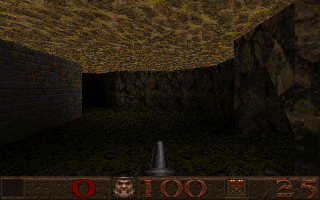
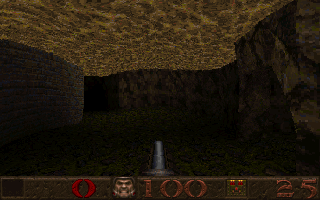
The painter picks each face's mip level as D_MipLevelForScale does and builds its surface from that mip, warps the view under water, slime and lava as D_WarpScreen does, and rolls it up to 2 degrees when strafing as V_CalcRoll does; distant faces stop shimmering and the raster gets faster
Claude-Session: https://claude.ai/code/session_01BbS8rtmAPcSwnkVohUB7vv

diff --git a/src/renderer.js b/src/renderer.js
@@ -57,7 +57,7 @@ export class Renderer {
   }
 
   // ─â”€ surface cache (R_DrawSurface) ─â”€â”€â”€─â”€â”€â”€─â”€â”€â”€─â”€â”€â”€─â”€â”€â”€─â”€â”€â”€─â”€â”€â”€─â”€â”€â”€─â”€â”€â”€─â”€â”€
-  surface(faceId, styles, time, frame, ent = 0) {
+  surface(faceId, styles, time, frame, ent = 0, mip = 0) {
     const info = this.faceInfo.get(faceId);
     if (!info) return null;
     const { bsp, f } = info;
@@ -75,16 +75,16 @@ export class Renderer {
       const v = styles[f.styles[i]] ?? 1;
       light = light * 7 + Math.round(v * 16);
     }
-    key = faceId + ':' + light + ':' + tex.name;
+    key = faceId + ':' + light + ':' + tex.name + ':' + mip;
     // a face a dynamic light reaches is built for this frame alone, as Quake rebuilds its surface; a
     // brush model's faces see the light moved into the model's frame (its origin from the face list)
     const o = !this.dlights.length ? null : ent === 0 ? NO_OFFSET : this.entOrigin.get(ent);
     const lit = o ? this.faceDlights(info, o) : null;
-    if (lit) return this.buildSurface(bsp, f, tex, styles, lit);
+    if (lit) return this.buildSurface(bsp, f, tex, styles, lit, mip);
     let s = this.surfCache.get(key);
     if (s) return s;
     if (this.surfCache.size > SURF_CACHE_MAX) this.surfCache.clear();
-    s = this.buildSurface(bsp, f, tex, styles);
+    s = this.buildSurface(bsp, f, tex, styles, null, mip);
     this.surfCache.set(key, s);
     return s;
   }
@@ -110,9 +110,11 @@ export class Renderer {
     return out;
   }
 
-  buildSurface(bsp, f, tex, styles, dlights = null) {
-    const sw = Math.max(1, f.extents[0]);
-    const sh = Math.max(1, f.extents[1]);
+  // R_DrawSurface at a mip level: the surface 1/2^mip the size, from the texture's mip, the lightmap's
+  // luxels 16 >> mip texels apart
+  buildSurface(bsp, f, tex, styles, dlights = null, mip = 0) {
+    const sw = Math.max(1, f.extents[0] >> mip);
+    const sh = Math.max(1, f.extents[1] >> mip);
     const data = new Uint8Array(sw * sh);
     const lw = f.lightW;
     const lh = f.lightH;
@@ -141,26 +143,29 @@ export class Renderer {
       }
     }
     const cm = this.colormap;
-    const texw = tex.w, texh = tex.h, mip = tex.mips[0];
+    const texw = tex.w >> mip, texh = tex.h >> mip, pix = tex.mips[mip];
     const smin = f.texturemins[0], tmin = f.texturemins[1];
+    const smip = smin >> mip, tmip = tmin >> mip;
     for (let v = 0; v < sh; v++) {
-      const ty = (((v + tmin) % texh) + texh) % texh;
-      const lv = v >> 4, lf = (v & 15) / 16;
+      const ty = (((v + tmip) % texh) + texh) % texh;
+      const vf = v << mip;                      // the full-size texel row, for the lightmap
+      const lv = Math.min(vf >> 4, lh - 1), lf = (vf & 15) / 16;
       const lv1 = Math.min(lv + 1, lh - 1);
       const row = v * sw;
       for (let u = 0; u < sw; u++) {
-        const tx = (((u + smin) % texw) + texw) % texw;
-        const lu = u >> 4, luf = (u & 15) / 16;
+        const tx = (((u + smip) % texw) + texw) % texw;
+        const uf = u << mip;
+        const lu = Math.min(uf >> 4, lw - 1), luf = (uf & 15) / 16;
         const lu1 = Math.min(lu + 1, lw - 1);
         const l0 = block[lv * lw + lu] * (1 - luf) + block[lv * lw + lu1] * luf;
         const l1 = block[lv1 * lw + lu] * (1 - luf) + block[lv1 * lw + lu1] * luf;
         const l = l0 * (1 - lf) + l1 * lf;
         let shade = (255 - l) >> 2;
         if (shade < 0) shade = 0; else if (shade > 63) shade = 63;
-        data[row + u] = cm[(shade << 8) | mip[ty * texw + tx]];
+        data[row + u] = cm[(shade << 8) | pix[ty * texw + tx]];
       }
     }
-    return { data, w: sw, h: sh, smin, tmin };
+    return { data, w: sw, h: sh, smin, tmin, mip };
   }
 
   // ─â”€ a frame ─â”€â”€â”€─â”€â”€â”€─â”€â”€â”€─â”€â”€â”€─â”€â”€â”€─â”€â”€â”€─â”€â”€â”€─â”€â”€â”€─â”€â”€â”€─â”€â”€â”€─â”€â”€â”€─â”€â”€â”€─â”€â”€â”€─â”€â”€â”€─â”€â”€â”€─
@@ -230,7 +235,16 @@ export class Renderer {
       }
       if (info.f.sky) this.fillPolygon(verts, null, 2, time);
       else {
-        const s = this.surface(face, styles, time, entFrames.get(ent) ?? 0, ent);
+        // D_MipLevelForScale: the face's nearest point, the view's pixels per unit and the texture's mipadjust;
+        // liquids warp the full texture
+        let nearest = Infinity;
+        for (const p of poly) if (p[2] < nearest) nearest = p[2];
+        // the grid puts many faces exactly on a threshold (160, 400, 800 units at 320 wide): rounded, the SQL
+        // projection (a few 1e-7 off) and the JS one choose alike
+        nearest = Math.round(nearest * 1000) / 1000;
+        const scale = (view.scale / Math.max(near, nearest)) * (info.ti.mipadjust ?? 1);
+        const mip = info.f.liquid ? 0 : scale >= 1 ? 0 : scale >= 0.4 ? 1 : scale >= 0.2 ? 2 : 3;
+        const s = this.surface(face, styles, time, entFrames.get(ent) ?? 0, ent, mip);
         if (s) this.fillPolygon(verts, s, info.f.liquid ? 1 : 0, time);
       }
     }
@@ -301,6 +315,7 @@ export class Renderer {
     }
     const sd = surf ? surf.data : null;
     const sw = surf ? surf.w : 0, sh = surf ? surf.h : 0, smin = surf ? surf.smin : 0, tmin = surf ? surf.tmin : 0;
+    const mscale = surf ? 1 / (1 << surf.mip) : 1;     // a mip surface: texels 2^mip apart
     const sin = this.sinTable;
     const tphase = (time * 20) & 255;
     const view = this.view;
@@ -332,7 +347,7 @@ export class Renderer {
         if (iz <= zb[idx]) continue;
         zb[idx] = iz;
         const z = 1 / iz;
-        let s = sz * z - smin, t = tz * z - tmin;
+        let s = (sz * z - smin) * mscale, t = (tz * z - tmin) * mscale;
         if (mode === 1) {
           const ss = s, tt = t;
           s += sin[(tphase + (tt >> 0)) & 255];
@@ -610,6 +625,33 @@ export class Renderer {
   }
 
   // Draw_FadeScreen: every other pixel black, under the menu
+  // D_WarpScreen: under water, slime or lava the 3D view is resampled through Quake's sine table, rows
+  // and columns shifted by up to AMP2 * 2 pixels, cycling at 20 steps a second (before the 2D is drawn)
+  warpView(time) {
+    const { w, fb } = this;
+    const h = this.h - this.sbarLines;
+    const AMP2 = 3, CYCLE = 128;
+    if (!this.warpTurb) {
+      this.warpTurb = new Int32Array(1280);
+      for (let i = 0; i < 1280; i++) this.warpTurb[i] = Math.trunc(AMP2 + Math.sin((i * Math.PI * 2) / CYCLE) * AMP2);
+    }
+    if (this.warpW !== w || this.warpH !== h) {
+      this.warpW = w; this.warpH = h;
+      this.warpRows = new Int32Array(h + AMP2 * 2);
+      for (let v = 0; v < h + AMP2 * 2; v++) this.warpRows[v] = Math.trunc((v * h) / (h + AMP2 * 2)) * w;
+      this.warpCols = new Int32Array(w + AMP2 * 2);
+      for (let u = 0; u < w + AMP2 * 2; u++) this.warpCols[u] = Math.trunc((u * w) / (w + AMP2 * 2));
+      this.warpSrc = new Uint8Array(w * h);
+    }
+    const src = this.warpSrc, rows = this.warpRows, cols = this.warpCols, turb = this.warpTurb;
+    src.set(fb.subarray(0, w * h));
+    const off = Math.floor(time * 20) & (CYCLE - 1);
+    for (let v = 0; v < h; v++) {
+      const tv = turb[off + v], d = v * w;
+      for (let u = 0; u < w; u++) fb[d + u] = src[rows[v + turb[off + u]] + cols[tv + u]];
+    }
+  }
+
   fadeScreen() {
     const { fb, w, h } = this;
     for (let y = 0; y < h; y++) for (let x = y & 1; x < w; x += 2) fb[y * w + x] = 0;

diff --git a/src/main.js b/src/main.js
@@ -482,9 +482,24 @@ function handleFx(rows, time) {
   }
 }
 
+// V_CalcRoll: strafing rolls the view up to cl_rollangle (2°), fully from cl_rollspeed (200 units a second);
+// the sideways speed is the player's motion between frames along the view's right
+let rollFrom = null;
+function viewRoll(time) {
+  let roll = 0;
+  if (rollFrom && time > rollFrom.t) {
+    const vx = (last.PX - rollFrom.x) / (time - rollFrom.t), vy = (last.PY - rollFrom.y) / (time - rollFrom.t);
+    const yaw = (last.YAW * Math.PI) / 180;
+    const side = vx * Math.sin(yaw) - vy * Math.cos(yaw);
+    roll = Math.sign(side) * (Math.abs(side) < 200 ? (Math.abs(side) * 2) / 200 : 2);
+  } else if (rollFrom) roll = rollFrom.roll;
+  if (!rollFrom || time > rollFrom.t) rollFrom = { x: last.PX, y: last.PY, t: time, roll };
+  return roll;
+}
+
 function drawFrame(faces, ents, styles, time, dt = 0.05, overlay = null) {
   const r = renderer;
-  const view = { x: last.PX, y: last.PY, z: last.VIEW_Z, yaw: last.YAW, pitch: last.PITCH, roll: last.DEAD ? 60 : 0, fov: settings.fov };
+  const view = { x: last.PX, y: last.PY, z: last.VIEW_Z, yaw: last.YAW, pitch: last.PITCH, roll: last.DEAD ? 60 : last.INTERMISSION ? 0 : viewRoll(time), fov: settings.fov };
   r.beginFrame(view);
   const dl = r.dlights = frameDlights({ ents, models: res.models, explosions, qc: settings.logic === 'qc', time,
     player: { x: last.PX, y: last.PY, z: last.PZ, yaw: last.YAW, muzzle: muzzleUntil > time - 0.05 && !last.DEAD, glow: !!(last.QUAD || last.INVINCIBLE) } });
@@ -541,6 +556,8 @@ function drawFrame(faces, ents, styles, time, dt = 0.05, overlay = null) {
     }
   }
   prevPos = { x: last.PX, y: last.PY };
+  // the eye under water, slime or lava: the warp, over everything 3D and under the 2D
+  if (last.WATERLEVEL >= 3) r.warpView(time);
 
   // 2D
   // the intermission (the stats, or the finale's text) replaces the status bar, as in Sbar_Draw

diff --git a/src/bsp.js b/src/bsp.js
@@ -66,6 +66,10 @@ export class Bsp {
         t: [dv.getFloat32(p + 16, true), dv.getFloat32(p + 20, true), dv.getFloat32(p + 24, true)], toff: dv.getFloat32(p + 28, true),
         miptex: dv.getInt32(p + 32, true), flags: dv.getInt32(p + 36, true),
       });
+      // Mod_LoadTexinfo's mipadjust: a texture stretched over the surface (short texel vectors) keeps more detail
+      const ti = this.texinfo[this.texinfo.length - 1];
+      const len = (Math.hypot(...ti.s) + Math.hypot(...ti.t)) / 2;
+      ti.mipadjust = len < 0.32 ? 4 : len < 0.49 ? 3 : len < 0.99 ? 2 : 1;
     }
 
     // textures (miptex)

diff --git a/docs/ROADMAP.md b/docs/ROADMAP.md
@@ -28,8 +28,8 @@ does not do yet, roughly by how much it would change the experience. Items marke
 ## The renderer
 
 - **Resolution and scaling**: the view is 320×200 or 160×100 scaled by CSS. A 640×400 mode would need the painter's per-pixel loops to get faster first (the span loop is the hot path; typed-array tricks and avoiding per-pixel divides beyond the 8-pixel step would help), or a second Worker for the painter.
-- **Underwater warp**, **view roll** when strafing, **fullbright texture pixels** (the colormap handles them, but the surface cache does not mark them), **coloured lighting** (not Quake, not needed).
-- **Mip levels**: one mip level is used; distant faces shimmer. Picking the mip by the span's 1/z is cheap.
+- ~~**Underwater warp**~~ done (`Renderer.warpView`, `D_WarpScreen`): with the eye in water, slime or lava the finished 3D view is resampled through Quake's sine table. ~~**View roll** when strafing~~ done (`V_CalcRoll`: 2° at 200 units a second sideways, from the player's motion between frames). **Fullbright texture pixels** need nothing: Quake's colormap keeps colours 224–255 unchanged at every light level (all 2048 entries), and the surface cache goes through it. **Coloured lighting** (not Quake, not needed).
+- ~~**Mip levels**~~ done: each face picks its mip by `D_MipLevelForScale` (its nearest point, the view's pixels per unit, the texinfo's `mipadjust`; thresholds 1, 0.4, 0.2), and the surface cache builds it at 1/2^mip the size from the texture's mip with the lightmap sampled 16 >> mip texels apart. Distant faces no longer shimmer, and the raster got faster (E1M1's start view: 50 ms against 77). The nearest distance is rounded to a thousandth before the thresholds: the grid puts many faces exactly 160, 400 or 800 units away, where the SQL projection's last digits would otherwise pick another level than the JS one (`--compare`).
 - **BSP2 / 2PSB and large maps**: the parser accepts BSP 29 only, so many modern maps will not load. The loader's `TABLES` are not the limit; `Bsp` is.
 - **Transparent water**: Quake did not have it; `alpha` on `ents` exists for the oldone's gates and could carry it.
 

diff --git a/docs/ARCHITECTURE.md b/docs/ARCHITECTURE.md
@@ -327,9 +327,14 @@ against the near plane in view space, then `fillPolygon` scan-converts with pers
 spans: 1/z, s/z and t/z are affine in screen space, so each span walks them and divides every 8 pixels.
 Texels come from a **surface cache**: the miptex tiled under the face's lightmap (the four light
 styles summed) and pushed through the colormap once per face and light level, up to
-`SURF_CACHE_MAX` entries. Liquids are drawn with the sine warp, the sky with Quake's two scrolling
+`SURF_CACHE_MAX` entries, at the face's **mip level** (`D_MipLevelForScale` from its nearest point and the
+texinfo's `mipadjust`: a surface 1/2^mip the size from the texture's mip, the lightmap's luxels 16 >> mip
+texels apart; liquids always at mip 0). Liquids are drawn with the sine warp, the sky with Quake's two scrolling
 layers mapped by the pixel's direction (`skyPixel`), both as special fill modes of the same span
-routine. Texture animation (`+0name`…, `+aname` for pressed buttons) is `animSequence`.
+routine. Texture animation (`+0name`…, `+aname` for pressed buttons) is `animSequence`. With the eye
+under a liquid surface the page calls `warpView` after the 3D (gun and particles included) and before
+the 2D: `D_WarpScreen`'s resampling through the sine table, rows and columns shifted by up to six
+pixels. Strafing rolls the view up to 2° (`viewRoll` in `src/main.js`, `V_CalcRoll`).
 
 **Dynamic lights** (`src/dlights.js`, Quake's `cl_dlights`): each frame the page lists the lights:
 rockets and lava balls (the model's `EF_ROCKET` flag, 200 units), explosions from the fx events

diff --git a/docs/screenshots.md b/docs/screenshots.md
@@ -101,9 +101,9 @@ node scripts/screenshot.mjs e1m4 docs/ledge    --at=1288,1350,845,90 --tics=4 --
 
 ## E1M5, Gloom Keep
 
-![under the water of the flooded moat, where the E1M5 test holds its breath](flooded-e1m5-0.png) ![the moat courtyard with its round window](moat-e1m5-0.png) ![the stained-glass hall](glass-e1m5-0.png) ![a knight on the checkered floor](knight-e1m5-0.png) ![an ogre at the wooden gate](goldkey-e1m5-0.png)
+![under the water of the flooded moat, where the E1M5 test holds its breath, through D_WarpScreen's ripple](flooded-e1m5-0.png) ![the moat courtyard with its round window](moat-e1m5-0.png) ![the stained-glass hall](glass-e1m5-0.png) ![a knight on the checkered floor](knight-e1m5-0.png) ![an ogre at the wooden gate](goldkey-e1m5-0.png)
 
-1. under the water of the flooded moat, where the E1M5 test holds its breath
+1. under the water of the flooded moat, where the E1M5 test holds its breath, rippling through `D_WarpScreen`'s warp
 2. the moat courtyard with its round window
 3. the stained-glass hall
 4. a knight on the checkered floor
